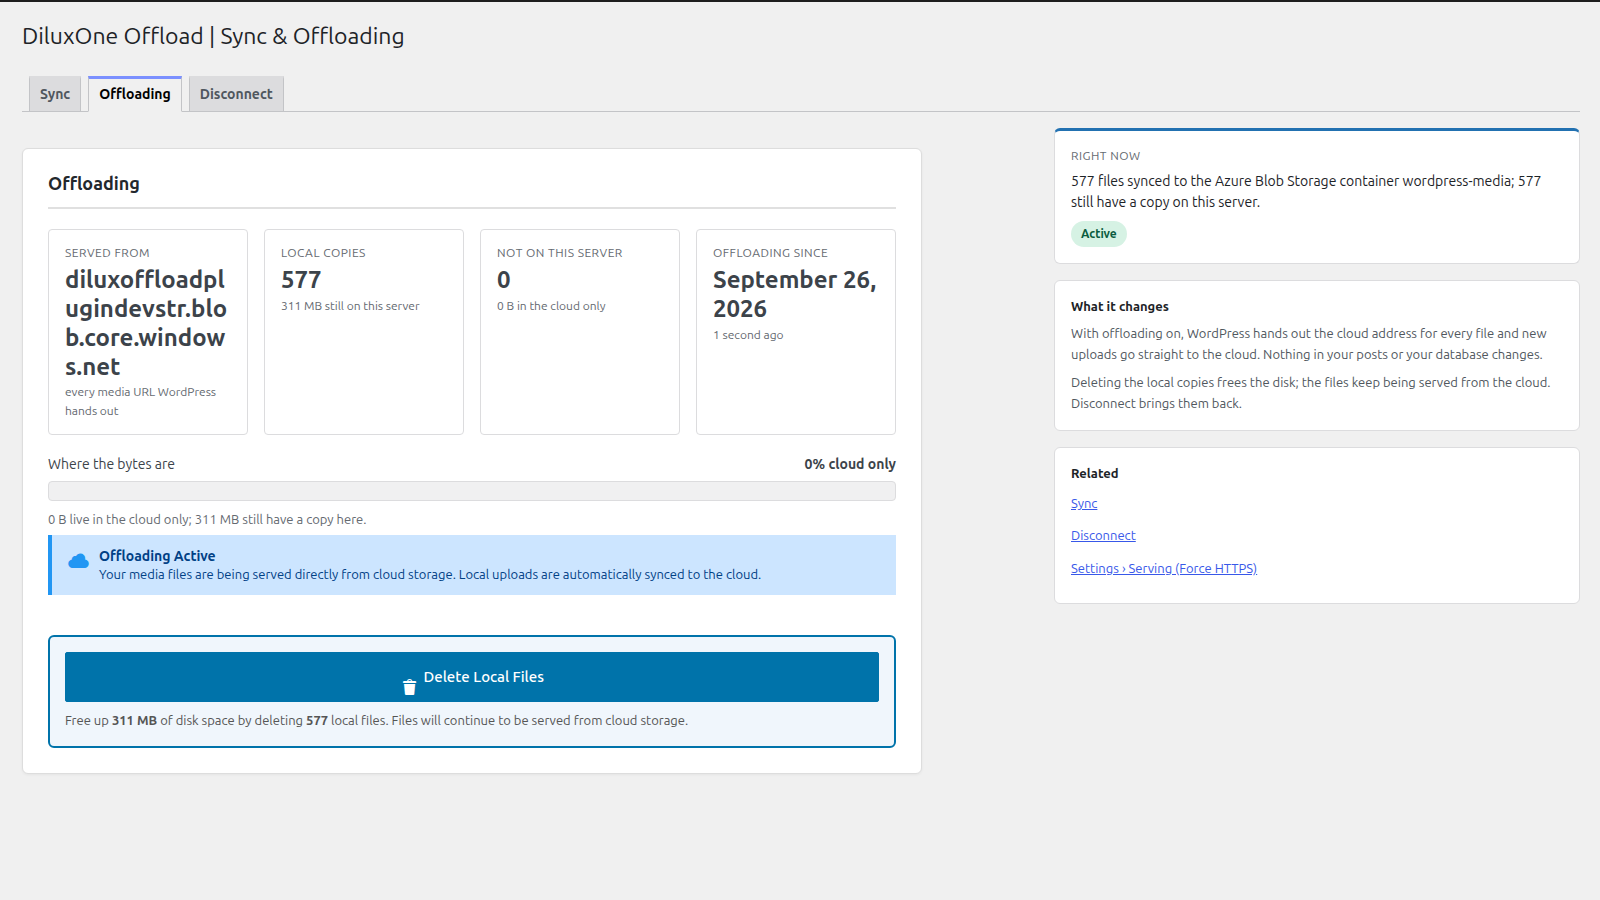
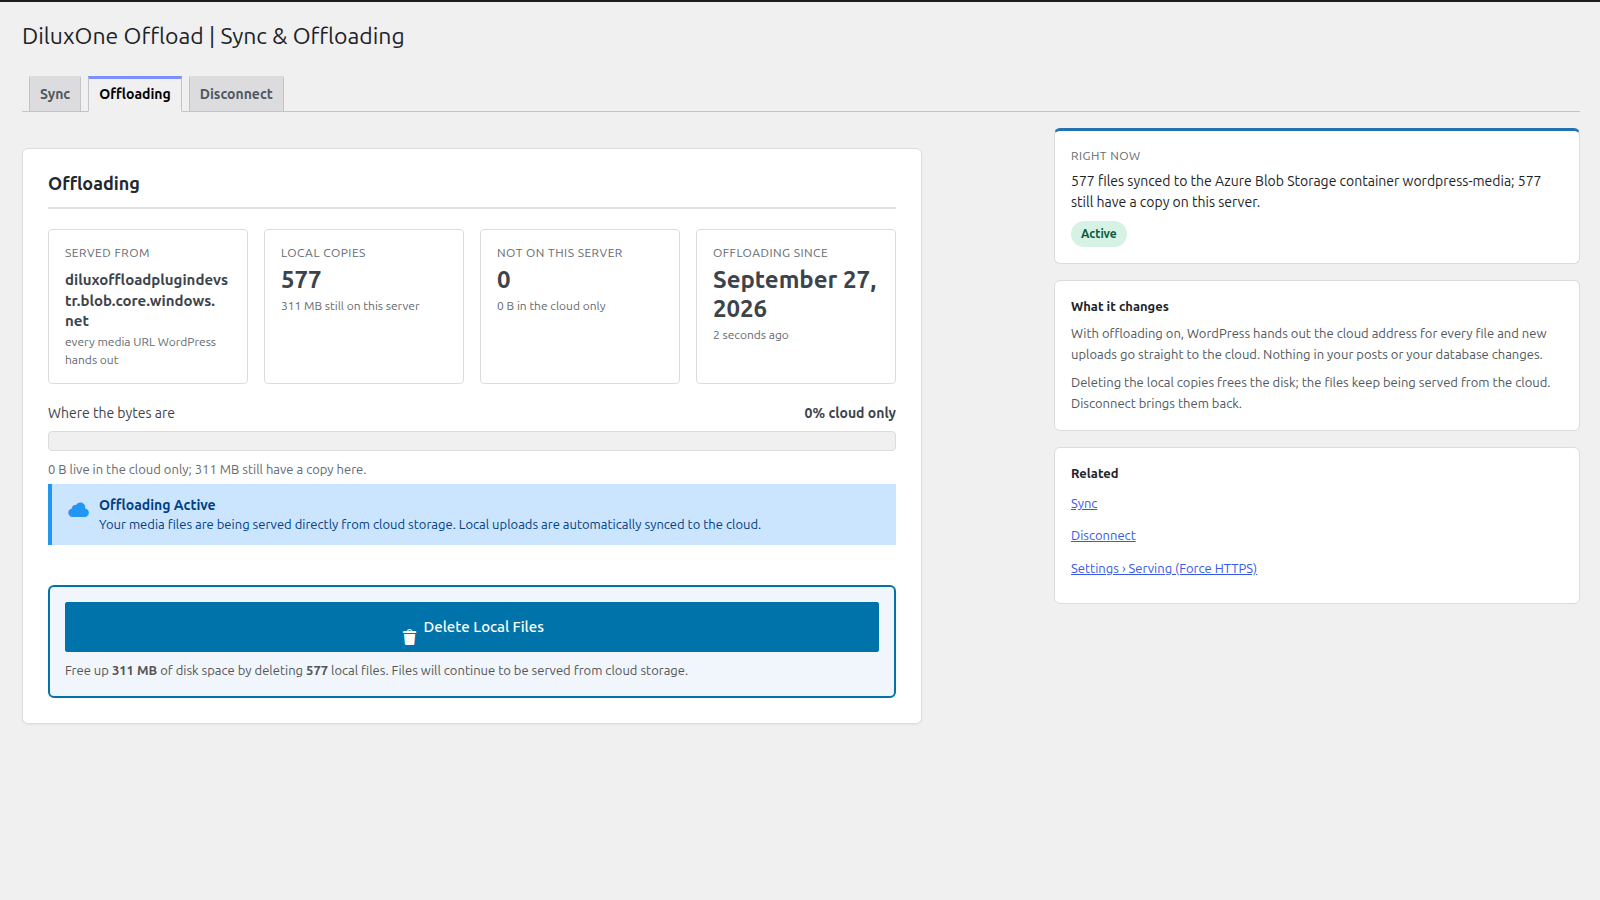
fix(admin): the hostname media is served from fits its card, smaller and wrapped at its dots (#14)
## 📝 What changes

The "Served from" figure on Sync & Offloading › Offloading sets a
hostname smaller than the numbers beside it and lets it wrap after its
dots. The mock E2E suite gets a case with the longest account name Azure
allows (at most three lines, smaller than the numbers); the real suite
checks the same on a single site and a network; screenshot 7 is retaken.

## 💡 Why

A long storage account name split mid-word over four lines at number
size and stretched the whole row of cards (visible in screenshot 7). The
screen is new in 2.0.0, so the existing changelog bullet already covers
it; no new readme line.

## 🧪 How I tested it

- [x] `make check` passes locally (345 unit)
- [x] `make test-integration` (313)
- [x] Mock E2E `status-health.spec.ts` (6/6, new case included)
- [x] Tested with Azure Blob Storage: `make screenshots` against the
real account; the real suite runs on this PR
- [x] Tested on multisite: step added to `multisite.spec.ts`

## 📸 Screenshots

`.wordpress-org/screenshot-7.png` retaken.

## ✅ Checklist

- [x] User-facing strings are wrapped in WordPress translation functions
with the `diluxone-offload` text domain.
- [x] User input is sanitized; output is escaped.
- [x] No credentials, API keys, or secrets are logged.
- [x] If this changes what a user sees, one bullet was added to the
newest `= X.Y.Z =` entry of `readme.txt`, under its `Unreleased.` line
(which stays: removing it is the release decision, see
`docs/release.md`).
[…]

Changed region(s): [[0.0312, 0.4978, 0.5625, 0.8089], [0.0312, 0.28, 0.1562, 0.4667], [0.5, 0.4356, 0.5625, 0.4667]]

diff --git a/tests/E2E-real/helpers/plugin.ts b/tests/E2E-real/helpers/plugin.ts
@@ -293,17 +293,27 @@ export async function uploadThroughMediaLibrary( page: Page, base: string, file:
 	return Number( ( id ?? '' ).replace( /\D/g, '' ) );
 }
 
+/** The card of the figure headed `label`. */
+function figure( page: Page, label: string ) {
+	return page.locator( '.diluxone-offload-bignum', { has: page.locator( '.diluxone-offload-bignum__k', { hasText: new RegExp( `^${ label.replace( /[.*+?^${}()|[\]\\]/g, '\\$&' ) }$` ) } ) } );
+}
+
 /**
  * One of the figures a data screen shows (Sync, Offloading, Disconnect): the
  * value and the line under it, found by the label above it.
  */
 export async function bignum( page: Page, label: string ): Promise< { value: string; detail: string } > {
-	const card = page.locator( '.diluxone-offload-bignum', { has: page.locator( '.diluxone-offload-bignum__k', { hasText: new RegExp( `^${ label.replace( /[.*+?^${}()|[\]\\]/g, '\\$&' ) }$` ) } ) } );
+	const card = figure( page, label );
 	await expect( card, `the "${ label }" figure is on the screen` ).toHaveCount( 1 );
 	return {
 		value: ( await card.locator( '.diluxone-offload-bignum__v' ).innerText() ).trim(),
 		detail: ( await card.locator( '.diluxone-offload-bignum__d' ).innerText().catch( () => '' ) ).trim(),
 	};
+}
+
+/** How many lines a figure's value takes on the screen. */
+export async function bignumLines( page: Page, label: string ): Promise< number > {
+	return figure( page, label ).locator( '.diluxone-offload-bignum__v' ).evaluate( ( el ) => Math.round( el.getBoundingClientRect().height / parseFloat( getComputedStyle( el ).lineHeight ) ) );
 }
 
 /** The number a figure shows, whatever the locale's thousands separator. */

diff --git a/tests/E2E/helpers/wp.ts b/tests/E2E/helpers/wp.ts
@@ -16,12 +16,13 @@ export function wp( args: string[] ): string {
 
 /**
  * Store a provider that looks right and cannot be reached: a storage account
- * that does not exist. Every check against it fails at once, which is what a
- * test of the failure path wants.
+ * that does not exist, with the longest name Azure allows. Every check against
+ * it fails at once, which is what a test of the failure path wants. `state`
+ * puts the plugin further along, to see a screen that only shows there.
  */
-export function configureUnreachableProvider(): void {
+export function configureUnreachableProvider( state: 'CONFIGURED' | 'OFFLOADING_ACTIVE' = 'CONFIGURED' ): void {
 	const key = Buffer.from( 'a key of the right shape that opens nothing at all........' ).toString( 'base64' );
-	wp( [ 'eval', `\\DiluxOneOffload\\ConfigManager::save_config( array( 'cloud_provider' => 'azure', 'provider_config' => array( 'storage_account' => 'diluxonee2enosuchaccount', 'access_key' => '${ key }', 'container_name' => 'nowhere' ) ) ); \\DiluxOneOffload\\ConfigManager::set_state( \\DiluxOneOffload\\Enums\\PluginState::CONFIGURED );` ] );
+	wp( [ 'eval', `\\DiluxOneOffload\\ConfigManager::save_config( array( 'cloud_provider' => 'azure', 'provider_config' => array( 'storage_account' => 'diluxonee2enosuchaccount', 'access_key' => '${ key }', 'container_name' => 'nowhere' ) ) ); \\DiluxOneOffload\\ConfigManager::set_state( \\DiluxOneOffload\\Enums\\PluginState::${ state } );` ] );
 }
 
 /** Back to an unconfigured plugin, the state every other mock spec expects. */

diff --git a/tests/E2E/status-health.spec.ts b/tests/E2E/status-health.spec.ts
@@ -53,3 +53,21 @@ test.describe.serial( 'Status › Health with a provider that cannot be reached'
 		}
 	} );
 } );
+
+test.describe.serial( 'Sync & Offloading › Offloading with the longest account name', () => {
+	test.beforeAll( () => configureUnreachableProvider( 'OFFLOADING_ACTIVE' ) );
+	test.afterAll( () => resetPlugin() );
+
+	test( 'the hostname media is served from fits its card in at most three lines', async ( { page } ) => {
+		await page.goto( `${ ADMIN }?page=diluxone-offload-sync&tab=offloading` );
+		const card = page.locator( '.diluxone-offload-bignum', { has: page.locator( '.diluxone-offload-bignum__k', { hasText: /^Served from$/ } ) } );
+		const value = card.locator( '.diluxone-offload-bignum__v' );
+		await expect( value ).toHaveText( 'diluxonee2enosuchaccount.blob.core.windows.net' );
+		const lines = await value.evaluate( ( el ) => Math.round( el.getBoundingClientRect().height / parseFloat( getComputedStyle( el ).lineHeight ) ) );
+		expect( lines ).toBeLessThanOrEqual( 3 );
+		// The figures beside it keep their size: only a name is set smaller.
+		const number = page.locator( '.diluxone-offload-bignum__v:not(.diluxone-offload-bignum__v--text)' ).first();
+		const size = ( el: HTMLElement | SVGElement ) => parseFloat( getComputedStyle( el ).fontSize );
+		expect( await value.evaluate( size ) ).toBeLessThan( await number.evaluate( size ) );
+	} );
+} );

diff --git a/tests/E2E-real/single-site.spec.ts b/tests/E2E-real/single-site.spec.ts
@@ -228,6 +228,7 @@ test.describe.serial( 'single site journey', () => {
 		// Offloading: served from the account, every byte still has a copy here, since when.
 		await ui.goTab( page, base, 'offloading' );
 		expect( ( await ui.bignum( page, 'Served from' ) ).value ).toBe( `${ run.account }.blob.core.windows.net` );
+		expect( await ui.bignumLines( page, 'Served from' ), 'the hostname fits its card' ).toBeLessThanOrEqual( 3 );
 		expect( await ui.bignumCount( page, 'Local copies' ) ).toBe( inCloud );
 		expect( await ui.bignumCount( page, 'Not on this server' ) ).toBe( 0 );
 		expect( ( await ui.bignum( page, 'Offloading since' ) ).value ).not.toBe( '—' );

diff --git a/tests/E2E-real/multisite.spec.ts b/tests/E2E-real/multisite.spec.ts
@@ -121,6 +121,7 @@ test.describe.serial( 'multisite journey', () => {
 		// The main site's figures count its tracked rows, which are its keys in the container.
 		const mainInCloud = ( await listKeys( run, 'uploads/' ) ).filter( ( k ) => ! k.startsWith( 'uploads/sites/' ) ).length;
 		await ui.goTab( page, base, 'offloading' );
+		expect( await ui.bignumLines( page, 'Served from' ), 'the hostname fits its card' ).toBeLessThanOrEqual( 3 );
 		expect( await ui.bignumCount( page, 'Local copies' ) ).toBe( mainInCloud );
 		expect( await ui.bignumCount( page, 'Not on this server' ) ).toBe( 0 );
 

diff --git a/assets/css/admin.css b/assets/css/admin.css
@@ -192,6 +192,13 @@
 	overflow-wrap: anywhere;
 }
 
+/* A name instead of a number (the hostname media is served from): long, so smaller. */
+.diluxone-offload-bignum__v--text {
+	font-size: 15px;
+	line-height: 1.35;
+	margin-top: 8px;
+}
+
 .diluxone-offload-bignum__d {
 	font-size: 12px;
 	color: #646970;

diff --git a/templates/admin-sync-offloading.php b/templates/admin-sync-offloading.php
@@ -36,12 +36,18 @@ $since           = (int) ( $timestamps['offloading_since'] ?? 0 );
 
 <?php
 // The figures every state of this screen can show, from the tracking table.
+// A fourth item marks a value that is a hostname, not a number: set smaller, and
+// a long one wraps after its dots rather than mid-label.
 $diluxone_offload_bignums = static function ( array $items ): void {
 	echo '<div class="diluxone-offload-bignums">';
 	foreach ( $items as $item ) {
 		echo '<div class="diluxone-offload-bignum">';
 		echo '<div class="diluxone-offload-bignum__k">' . esc_html( $item[0] ) . '</div>';
-		echo '<div class="diluxone-offload-bignum__v">' . esc_html( $item[1] ) . '</div>';
+		if ( ! empty( $item[3] ) ) {
+			echo '<div class="diluxone-offload-bignum__v diluxone-offload-bignum__v--text">' . wp_kses( implode( '.<wbr>', array_map( 'esc_html', explode( '.', $item[1] ) ) ), array( 'wbr' => array() ) ) . '</div>';
+		} else {
+			echo '<div class="diluxone-offload-bignum__v">' . esc_html( $item[1] ) . '</div>';
+		}
 		if ( $item[2] !== '' ) {
 			echo '<div class="diluxone-offload-bignum__d">' . esc_html( $item[2] ) . '</div>';
 		}
@@ -68,7 +74,7 @@ $diluxone_offload_ago     = static function ( int $ts ): string {
 			<?php
 			$diluxone_offload_bignums(
 				array(
-					array( __( 'Served from', 'diluxone-offload' ), $cloud_host !== '' ? (string) wp_parse_url( $cloud_host, PHP_URL_HOST ) : __( 'the cloud', 'diluxone-offload' ), __( 'every media URL WordPress hands out', 'diluxone-offload' ) ),
+					array( __( 'Served from', 'diluxone-offload' ), $cloud_host !== '' ? (string) wp_parse_url( $cloud_host, PHP_URL_HOST ) : __( 'the cloud', 'diluxone-offload' ), __( 'every media URL WordPress hands out', 'diluxone-offload' ), true ),
 					array( __( 'Local copies', 'diluxone-offload' ), number_format_i18n( $local_copies ), size_format( $local_size ) . ' ' . __( 'still on this server', 'diluxone-offload' ) ),
 					array( __( 'Not on this server', 'diluxone-offload' ), number_format_i18n( $cloud_only ), size_format( $cloud_only_size ) . ' ' . __( 'in the cloud only', 'diluxone-offload' ) ),
 					array( __( 'Offloading since', 'diluxone-offload' ), $since > 0 ? get_date_from_gmt( gmdate( 'Y-m-d H:i:s', $since ), (string) get_option( 'date_format' ) ) : '—', $since > 0 ? $diluxone_offload_ago( $since ) : '' ),
